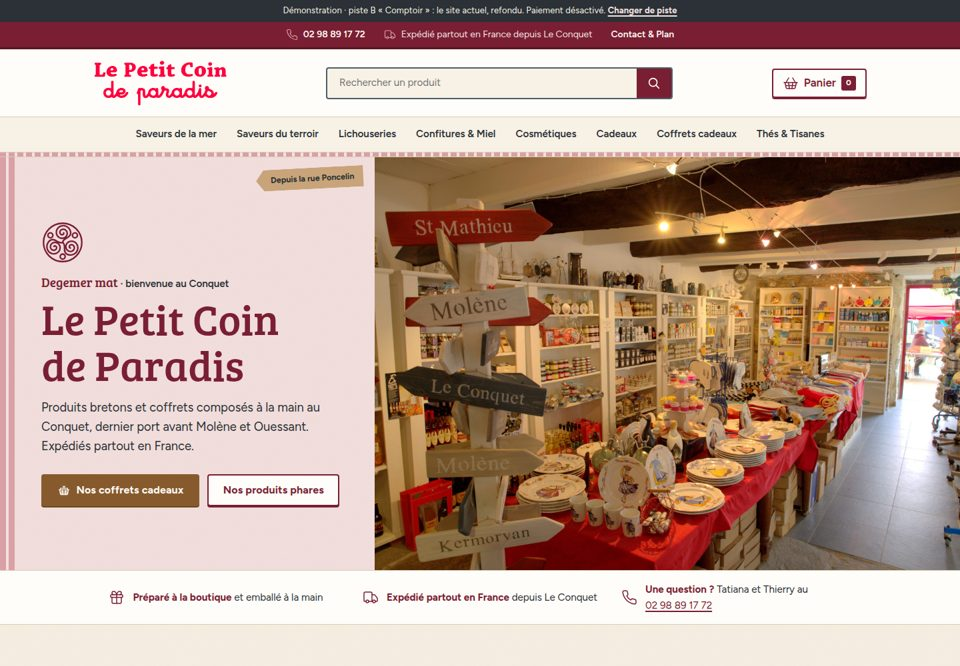
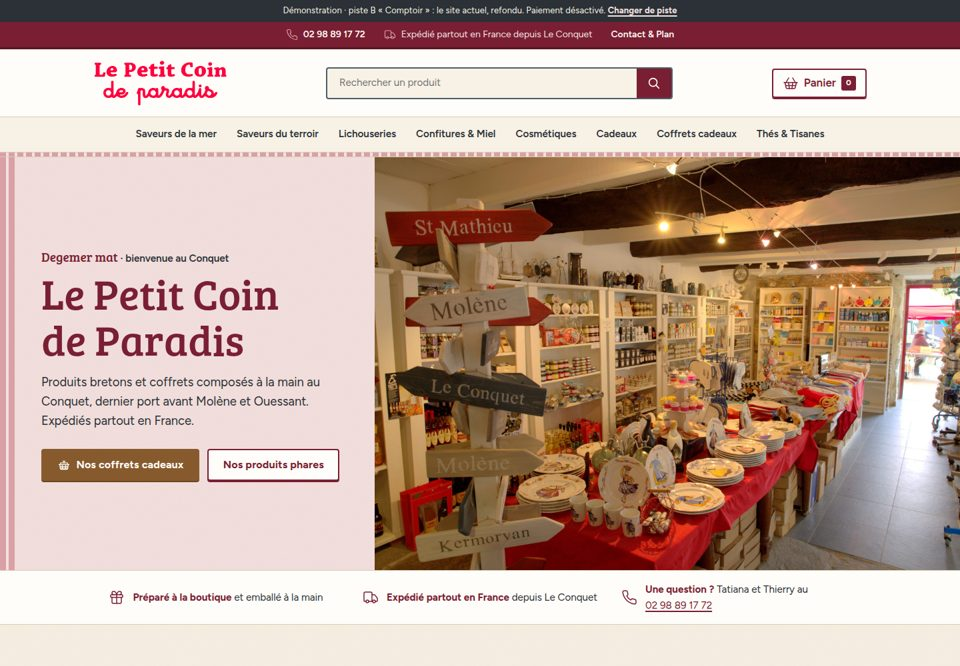
Piste B : retrait de l'étiquette « Depuis la rue Poncelin » et du triskell du hero

Changed region(s): [[0.0312, 0.3303, 0.375, 0.7808], [0.25, 0.2402, 0.375, 0.3003]]

diff --git a/b/assets/theme-b.css b/b/assets/theme-b.css
@@ -148,7 +148,9 @@ a { text-decoration-thickness: 1.5px; }
   .hero-text::before { width: 22px; }
   .trisk-hero { width: 64px; height: 64px; }
 }
-.hero-text::after { content: "Depuis la rue Poncelin"; position: absolute; right: 16px; top: 16px; background: var(--kraft-clair); color: var(--ardoise); font-weight: 700; font-size: .78rem; padding: 6px 14px 6px 22px; clip-path: polygon(0 50%, 12px 0, 100% 0, 100% 100%, 12px 100%); transform: rotate(-3deg); }
+/* Pas d'étiquette ni de triskell dans le hero de la piste B (retour client) */
+.hero-text::after { content: none; }
+.trisk-hero { display: none; }
 .reassure-bar { background: var(--blanc); border-bottom: 1px solid var(--pierre); }
 .reassure li .picto { color: var(--bordeaux); }
 .reassure b { color: var(--bordeaux); }
